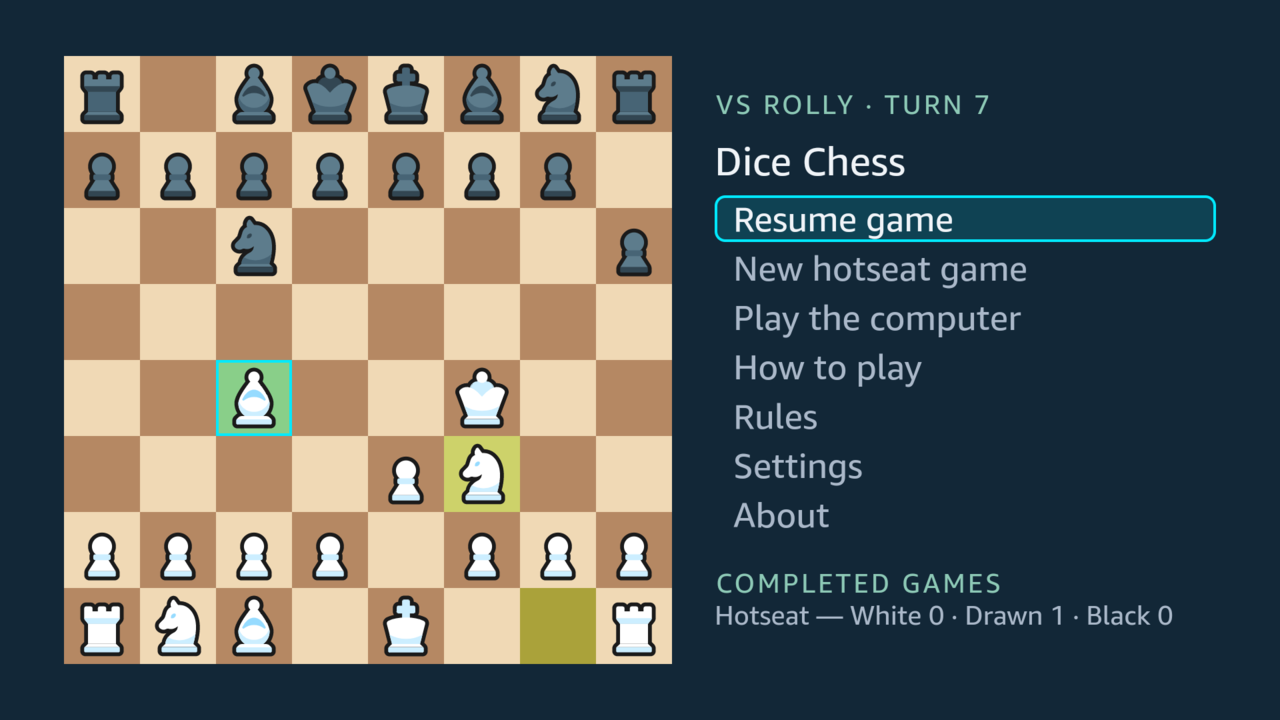
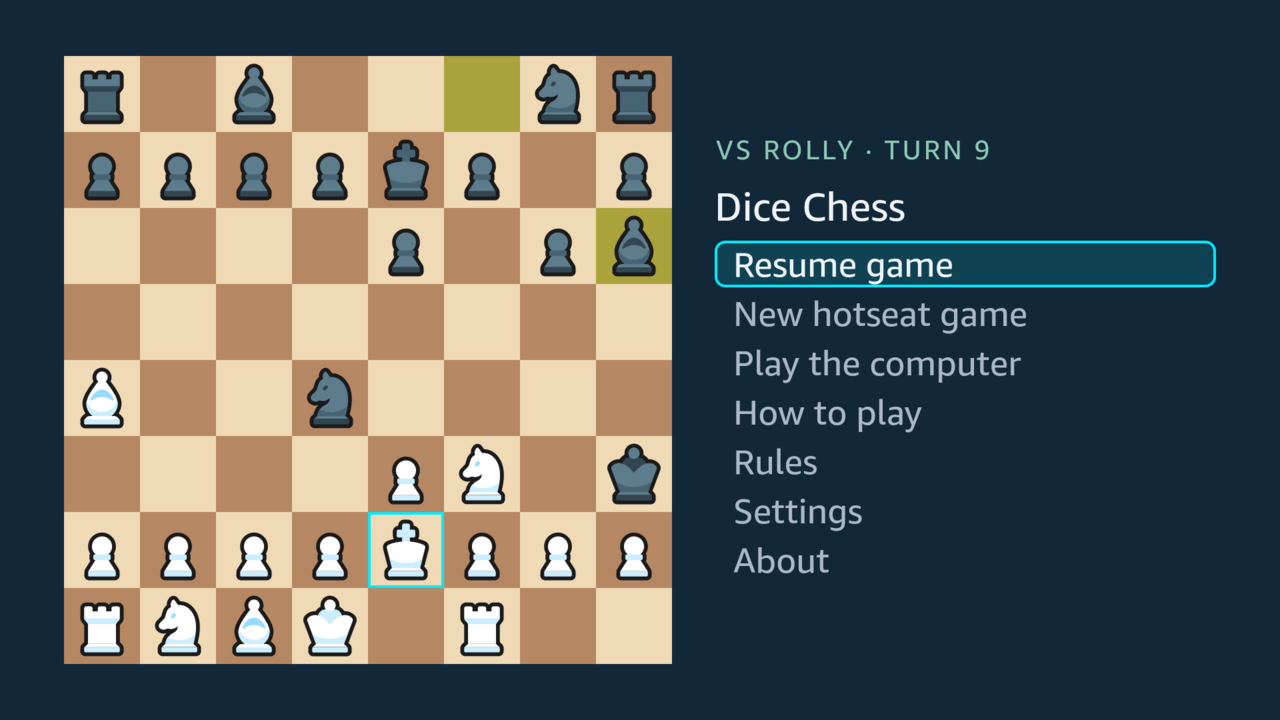
feat: take the hotseat record off the home screen
The home screen showed "Completed games: Hotseat — White 0 · Drawn 1 ·
Black 0". Counts by colour say nothing about the people who played:
tonight Alex plays Maria, tomorrow Maria plays Arthur, and they swap
colours all the time. So the home screen now shows the menu alone. The
record that does mean something, against each computer opponent and per
side played, stays on the opponent's card.

- GameScreen drops the Record component and the ledger prop it needed.
- The ledger still counts hotseat results, so the save format and the
  testers' saved records are unchanged; a comment says why nothing
  shows them.
- The ledger test now checks that a finished game is counted and that
  the home screen shows no record. The test that nothing shows before a
  first game is gone, since nothing shows at all.
- The site's features and why pages, the resume screenshot and the
  native README no longer describe a record on the home screen.

diff --git a/native/src/GameScreen.tsx b/native/src/GameScreen.tsx
@@ -13,7 +13,7 @@ import {
   type Result,
 } from '../../src/core/game';
 import { opponentOf } from '../../src/core/opponents';
-import { summary, type Ledger } from '../../src/core/ledger';
+import type { Ledger } from '../../src/core/ledger';
 import { movableSquares, type BoardKey } from '../../src/core/boardInput';
 import { Board } from './Board';
 import { Dice } from './Dice';
@@ -191,24 +191,6 @@ const headline = (game: Game, view: GameView): string =>
   (emptyRoll(game) ? 'No legal moves' : `${sideName(view.side)} to play`) +
   mover(game, view.bot);
 
-// Hotseat results so far, by colour, because the seats change hands and nobody
-// here knows who sat where. The record against each local opponent is on its
-// card (#115), which keeps the home screen inside the safe area.
-const Record = ({ ledger }: { ledger: Ledger }) => {
-  const { white, draws, black } = summary(ledger).hotseat;
-  if (white + draws + black === 0) return null;
-  return (
-    <View style={{ marginTop: 20 }}>
-      <Text style={{ color: '#8dc9b6', fontSize: 20, letterSpacing: 2 }}>
-        COMPLETED GAMES
-      </Text>
-      <Text style={{ color: '#aab8c9', fontSize: 20 }}>
-        {`Hotseat — White ${white} · Drawn ${draws} · Black ${black}`}
-      </Text>
-    </View>
-  );
-};
-
 // Who the person plays: nobody in hotseat, else the opponent's name.
 const opponentName = (game: Game): string | null =>
   isBotMode(game.mode) ? opponentOf(game.mode).name : null;
@@ -298,7 +280,6 @@ const Panel = ({
   music,
   hasMusic,
   selected,
-  ledger,
   pressed,
 }: {
   overlay: Overlay;
@@ -307,22 +288,18 @@ const Panel = ({
   music: MusicSetting;
   hasMusic: boolean;
   selected: string | null;
-  ledger?: Ledger;
   // OK is held: the focused option of an open menu shows it.
   pressed: boolean;
 }) => {
   switch (overlay.kind) {
     case 'home':
       return (
-        <>
-          <Choices
-            title="Dice Chess"
-            options={homeOptions(resumable(game))}
-            index={overlay.index}
-            pressed={pressed}
-          />
-          {ledger ? <Record ledger={ledger} /> : null}
-        </>
+        <Choices
+          title="Dice Chess"
+          options={homeOptions(resumable(game))}
+          index={overlay.index}
+          pressed={pressed}
+        />
       );
     case 'menu':
       return (
@@ -645,7 +622,6 @@ export const GameScreen = ({
           music={musicSetting}
           hasMusic={hasMusic}
           selected={focus.selected}
-          ledger={ledger}
           pressed={pressed}
         />
       </View>

diff --git a/native/test/ledger.test.tsx b/native/test/ledger.test.tsx
@@ -69,7 +69,7 @@ const playAndResign = () => {
   send('back', 'down', 'select', 'down', 'select');
 };
 
-test('a finished game is counted, and the home screen shows it', () => {
+test('a finished game is counted, and the home screen shows no hotseat record', () => {
   reset();
   const root = launch();
   assert.equal(ledger(), null);
@@ -77,10 +77,11 @@ test('a finished game is counted, and the home screen shows it', () => {
   playAndResign();
   assert.deepEqual(ledger()?.hotseat, { white: 0, draws: 0, black: 1 });
 
-  // Back to the home screen, where a player is told what has been played.
+  // Back to the home screen: counts by colour say nothing about who played, so
+  // the menu stands alone. The record against an opponent is on its card.
   send('enter');
-  assert.match(text(root), /COMPLETED GAMES/);
-  assert.match(text(root), /Hotseat — White 0 · Drawn 0 · Black 1/);
+  assert.doesNotMatch(text(root), /COMPLETED GAMES/);
+  assert.doesNotMatch(text(root), /Hotseat —/);
 });
 
 test('a result already on screen when the app dies is counted exactly once', () => {
@@ -121,12 +122,6 @@ test('an abandoned game is never counted', () => {
   send('enter', 'enter');
   send('back', 'down', 'down', 'down', 'select', 'down', 'select');
   assert.equal(ledger(), null);
-});
-
-test('nothing is shown before a game has been completed', () => {
-  reset();
-  const root = launch();
-  assert.doesNotMatch(text(root), /COMPLETED GAMES/);
 });
 
 test('a game played as Black is counted under Black', () => {

diff --git a/src/core/ledger.ts b/src/core/ledger.ts
@@ -12,6 +12,11 @@
 //
 // Hotseat is reported by colour, never by player. The seats change hands and
 // the ledger has no way to know who sat where.
+//
+// Only the record against each computer opponent is shown, on its card. The
+// hotseat counts are still kept, so the save format stays the same, but the
+// home screen no longer shows them: counts by colour say nothing about the
+// people who played, who change from one evening to the next.
 
 import type { Game, Side } from './game.ts';
 import { hasExactKeys } from './keys.ts';

diff --git a/site/src/content/docs/project/features.md b/site/src/content/docs/project/features.md
@@ -1,6 +1,6 @@
 ---
 title: What it does
-description: 'A tour of Dice Chess for Fire TV: hotseat on one remote, three computer opponents as either colour, the tutorial and the rules guide, saving, the record of completed games, sound, music that follows the danger to the king, and rematch.'
+description: 'A tour of Dice Chess for Fire TV: hotseat on one remote, three computer opponents as either colour, the tutorial and the rules guide, saving, your record against each opponent, sound, music that follows the danger to the king, and rematch.'
 sidebar:
   order: 2
 ---
@@ -59,9 +59,9 @@ Nine topics, from how a game ends to castling, promotion, en passant and draws. 
 
 ## Saving, resuming and the record
 
-The game is saved after every action. The app opens on the home screen, where "Resume game" continues where the game stopped: on the virtual device, a game force-stopped mid-turn and relaunched came back as it was. The home screen also keeps the record of completed hotseat games, by colour. The record against each computer opponent, as wins, draws and losses for each side you played, is on its card.
+The game is saved after every action. The app opens on the home screen, where "Resume game" continues where the game stopped: on the virtual device, a game force-stopped mid-turn and relaunched came back as it was. Your record against each computer opponent, as wins, draws and losses for each side you played, is on its card.
 
-![The home screen with Resume game focused over a game in progress, and the record of completed games below the menu](../../../assets/screenshots/resume.png)
+![The home screen with Resume game focused over a game in progress](../../../assets/screenshots/resume.png)
 
 ## Sound
 

diff --git a/native/README.md b/native/README.md
@@ -626,10 +626,12 @@ game already counted, so a caller never has to track what it has done.
 A game that never ends is never counted, so an abandoned or replaced game stays
 out of the record without anything having to notice it was abandoned.
 
-Hotseat is reported by colour — White, drawn, Black — never by player: the seats
-change hands and nothing here knows who sat where. Games against an opponent are
-recorded per opponent **and** per side the player held, because one combined
-number would hide how it plays each colour.
+Hotseat is counted by colour — White, drawn, Black — never by player: the seats
+change hands and nothing here knows who sat where. That count is kept, so the save
+format stays the same, but nothing shows it: counts by colour say nothing about
+the people who played, who change from one evening to the next. Games against an
+opponent are recorded per opponent **and** per side the player held, because one
+combined number would hide how it plays each colour, and shown on its card.
 
 A ledger that no longer decodes is refused rather than reset to zero, and left on
 disk rather than overwritten. Losing a record silently is worse than showing

diff --git a/site/src/content/docs/project/why.md b/site/src/content/docs/project/why.md
@@ -29,7 +29,7 @@ This Fire TV app is new. Its repository started on 21 September 2026, during [Bu
 - the menus;
 - the tutorial and the rules guide;
 - sound;
-- saving and the record of completed games;
+- saving, and the record against each computer opponent;
 - the computer opponents' turns, shown one action at a time.
 
 It takes the rules from the engine's npm package, so the TV app and the web game play by the same rules.
